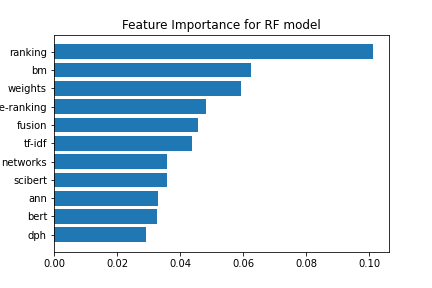
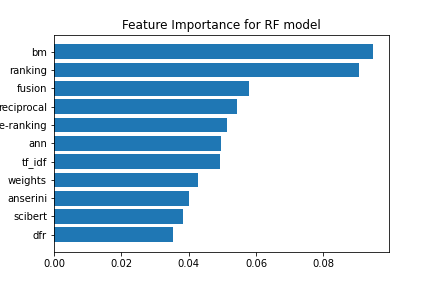
Update output result, static image and HTML.

diff --git a/templates/result.html b/templates/result.html
@@ -80,7 +80,7 @@ label,input{
 .button {
   background-color: rgb(255, 174, 74);
   border: none;
-  color: white;
+  color: black;
   padding: 23px 50px;
   text-align: center;
   text-decoration: none;
@@ -205,18 +205,18 @@ ul {
 <li><label for = "f28"> <input type="checkbox" name="model28" /> Learning to Rank </label></li>
 <li><label for = "f29"> <input type="checkbox" name="model29" /> Lnu.Ltu </label></li>
 <li><label for = "f30"> <input type="checkbox" name="model30" /> Lucene </label></li>
-<li><label for = "f31"> <input type="checkbox" name="model31" /> Bayesian Network (Duplicate) </label></li>
-<li><label for = "f32"> <input type="checkbox" name="model32" /> Nogueira (Person) </label></li>
+<!--li><label for = "f31"> <input type="checkbox" name="model31" /> Bayesian Network (Duplicate) </label></li-->
+<!--li><label for = "f32"> <input type="checkbox" name="model32" /> Nogueira (Person) </label></li-->
 <li><label for = "f33"> <input type="checkbox" name="model33" /> Non-stopwords </label></li>
 <li><label for = "f34"> <input type="checkbox" name="model34" /> Not Relevant (Nonrel) </label></li>
 <li><label for = "f35"> <input type="checkbox" name="model35" /> Normalization </label></li>
 <li><label for = "f36"> <input type="checkbox" name="model36" /> Pointwise </label></li>
-<li><label for = "f37"> <input type="checkbox" name="model37" /> Ponte (Person) </label></li>
+<!--li><label for = "f37"> <input type="checkbox" name="model37" /> Ponte (Person) </label></li-->
 <li><label for = "f38"> <input type="checkbox" name="model38" /> Pool Rank </label></li>
 <li><label for = "f39"> <input type="checkbox" name="model39" /> Probability Ranking Principle (PRP) </label></li>
 <li><label for = "f40"> <input type="checkbox" name="model40" /> Ranking </label></li>
 <li><label for = "f41"> <input type="checkbox" name="model41" /> Re-Ranking </label></li>
-<li style="font-size:14px"><label for = "f42"> <input type="checkbox" name="model42" /> Reciprocal Rank Fusion (RRF, duplicate) </label></li>
+<!--li style="font-size:14px"><label for = "f42"> <input type="checkbox" name="model42" /> Reciprocal Rank Fusion (RRF, duplicate) </label></li-->
 <li><label for = "f43"> <input type="checkbox" name="model43" /> SciBERT </label></li>
 <li><label for = "f44"> <input type="checkbox" name="model44" /> ScispaCy </label></li>
 <li><label for = "f45"> <input type="checkbox" name="model45" /> SofiaML </label></li>
@@ -353,7 +353,7 @@ document.getElementById("confidence").innerHTML = "{{confidence}}"
 
 <br>
 
-<p class = "text"> Based on the performance of the model, we can see that our Random Forest classifier performs well in terms of precision value (high), F1-score (high) and Log-loss (low). Besides, the ROC curve shows that the model has obtained an AUC value of 0.87 which is considered high in this case.
+<p class = "text">Based on the performance of the model, we can see that our Random Forest classifier performs well in terms of precision value (high), F1-score (high) and Log-loss (low). Besides, the ROC curve shows that the model has obtained an AUC value of 0.87 which is considered high in this case.
 
 Furthermore, it is shown that an IR system's performance is highly correlated to the use of ranking, bm, weights and e-ranking, all which suggests that an IR system that uses a ranking method one way or another would normally obtain better performance as compared to the use of other methods or algorithms. This would make sense considering that the IR system and the current TREC-COVID challenge and research mainly uses ranking based evaluating metrics for evaluation of the performance of the IR.
 
@@ -387,7 +387,7 @@ Nonetheless, the IR system that considers ranking as the algorithms used seems t
 
 <br>
 
-<p class = "text"> TREC-COVID is an event organized by NIST to further the research and evaluate the capabilities of the Information Retrieval (IR) system. This is done by organising a competition in Kaggle or through volunteers where each participating teams involved will try to compete and provide the best IR system, each using a different set of methods and algorithms to retrieves relevant articles or documents based on the query given by a user for the medical experts researching on the COVID-19 matters.
+<p class = "text">TREC-COVID is an event organized by NIST to further the research and evaluate the capabilities of the Information Retrieval (IR) system. This is done by organising a competition in Kaggle or through volunteers where each participating teams involved will try to compete and provide the best IR system, each using a different set of methods and algorithms to retrieves relevant articles or documents based on the query given by a user for the medical experts researching on the COVID-19 matters.
 
 The evaluator that is shown is a classifier model that is trained on TREC-COVID's results obtained from each participating team. Our evaluator is trying to figure out whether a certain parameter, or the usage of different methods or algorithms would affect the performance of an IR system.
 </p>

diff --git a/templates/index.html b/templates/index.html
@@ -75,7 +75,7 @@ label,input{
 .button {
   background-color: rgb(255, 174, 74);
   border: none;
-  color: white;
+  color: black;
   padding: 23px 50px;
   text-align: center;
   text-decoration: none;
@@ -198,18 +198,18 @@ ul {
 <li><label for = "f28"> <input type="checkbox" name="model28" /> Learning to Rank </label></li>
 <li><label for = "f29"> <input type="checkbox" name="model29" /> Lnu.Ltu </label></li>
 <li><label for = "f30"> <input type="checkbox" name="model30" /> Lucene </label></li>
-<li><label for = "f31"> <input type="checkbox" name="model31" /> Bayesian Network (Duplicate) </label></li>
-<li><label for = "f32"> <input type="checkbox" name="model32" /> Nogueira (Person) </label></li>
+<!--li><label for = "f31"> <input type="checkbox" name="model31" /> Bayesian Network (Duplicate) </label></li-->
+<!--li><label for = "f32"> <input type="checkbox" name="model32" /> Nogueira (Person) </label></li-->
 <li><label for = "f33"> <input type="checkbox" name="model33" /> Non-stopwords </label></li>
 <li><label for = "f34"> <input type="checkbox" name="model34" /> Not Relevant (Nonrel) </label></li>
 <li><label for = "f35"> <input type="checkbox" name="model35" /> Normalization </label></li>
 <li><label for = "f36"> <input type="checkbox" name="model36" /> Pointwise </label></li>
-<li><label for = "f37"> <input type="checkbox" name="model37" /> Ponte (Person) </label></li>
+<!--li><label for = "f37"> <input type="checkbox" name="model37" /> Ponte (Person) </label></li-->
 <li><label for = "f38"> <input type="checkbox" name="model38" /> Pool Rank </label></li>
 <li><label for = "f39"> <input type="checkbox" name="model39" /> Probability Ranking Principle (PRP) </label></li>
 <li><label for = "f40"> <input type="checkbox" name="model40" /> Ranking </label></li>
 <li><label for = "f41"> <input type="checkbox" name="model41" /> Re-Ranking </label></li>
-<li style="font-size:14px"><label for = "f42"> <input type="checkbox" name="model42" /> Reciprocal Rank Fusion (RRF, duplicate) </label></li>
+<!--li style="font-size:14px"><label for = "f42"> <input type="checkbox" name="model42" /> Reciprocal Rank Fusion (RRF, duplicate) </label></li-->
 <li><label for = "f43"> <input type="checkbox" name="model43" /> SciBERT </label></li>
 <li><label for = "f44"> <input type="checkbox" name="model44" /> ScispaCy </label></li>
 <li><label for = "f45"> <input type="checkbox" name="model45" /> SofiaML </label></li>
@@ -316,7 +316,7 @@ document.getElementById("result").innerHTML = "{{result}}"
 
 <br>
 
-<p class = "text"> Based on the performance of the model, we can see that our Random Forest classifier performs well in terms of precision value (high), F1-score (high) and Log-loss (low). Besides, the ROC curve shows that the model has obtained an AUC value of 0.87 which is considered high in this case.
+<p class = "text">Based on the performance of the model, we can see that our Random Forest classifier performs well in terms of precision value (high), F1-score (high) and Log-loss (low). Besides, the ROC curve shows that the model has obtained an AUC value of 0.87 which is considered high in this case.
 
 Furthermore, it is shown that an IR system's performance is highly correlated to the use of ranking, bm, weights and e-ranking, all which suggests that an IR system that uses a ranking method one way or another would normally obtain better performance as compared to the use of other methods or algorithms. This would make sense considering that the IR system and the current TREC-COVID challenge and research mainly uses ranking based evaluating metrics for evaluation of the performance of the IR.
 
@@ -350,7 +350,7 @@ Nonetheless, the IR system that considers ranking as the algorithms used seems t
 
 <br>
 
-<p class = "text"> TREC-COVID is an event organized by NIST to further the research and evaluate the capabilities of the Information Retrieval (IR) system. This is done by organising a competition in Kaggle or through volunteers where each participating teams involved will try to compete and provide the best IR system, each using a different set of methods and algorithms to retrieves relevant articles or documents based on the query given by a user for the medical experts researching on the COVID-19 matters.
+<p class = "text">TREC-COVID is an event organized by NIST to further the research and evaluate the capabilities of the Information Retrieval (IR) system. This is done by organising a competition in Kaggle or through volunteers where each participating teams involved will try to compete and provide the best IR system, each using a different set of methods and algorithms to retrieves relevant articles or documents based on the query given by a user for the medical experts researching on the COVID-19 matters.
 
 The evaluator that is shown is a classifier model that is trained on TREC-COVID's results obtained from each participating team. Our evaluator is trying to figure out whether a certain parameter, or the usage of different methods or algorithms would affect the performance of an IR system.
 </p>

diff --git a/flask_app.py b/flask_app.py
@@ -22,7 +22,7 @@ def index():
 def predict():
     if request.method == 'POST':
         lst = getChecks()
-        
+        print(lst)
         if 1 not in lst:
             return render_template('index.html', result = "Please select 1 or more." , txt_color = "red")
         
@@ -39,7 +39,7 @@ def predict():
             color = "FF7F7F"
             res_txt = "Low Performance"
         
-        return render_template('result.html', result = res_txt, color = color, confidence = res[1], graph = res[2])
+        return render_template('result.html', result = res_txt, color = color, confidence = round(res[1],3), graph = res[2])
     else:
         return render_template('index.html')
 
@@ -75,6 +75,12 @@ def get_graph(input_list):
     fig = Figure()
     axis = fig.add_subplot(1, 1, 1)
     axis.barh(top_columns, top_columns_score)
+    axis.tick_params(
+        axis='x',          
+        which='both',      
+        bottom=False,      
+        top=False,         
+        labelbottom=False)
     axis.set_title("Feature Importance for RF model")
     
     fig.set_size_inches(12, 9)
